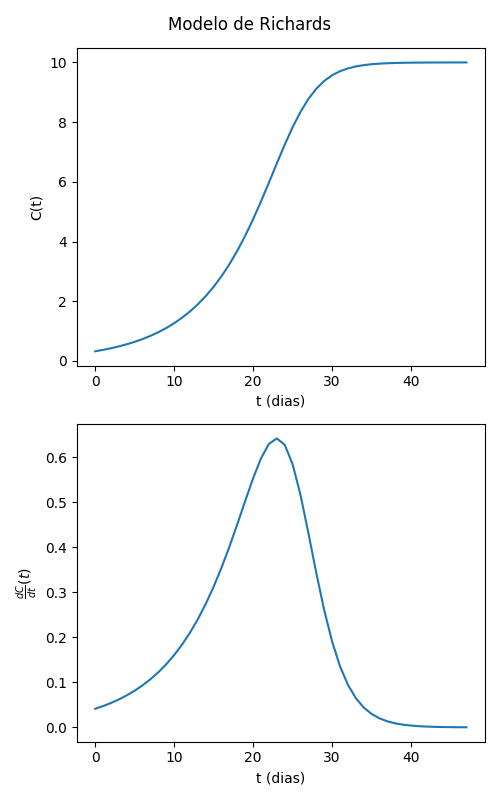
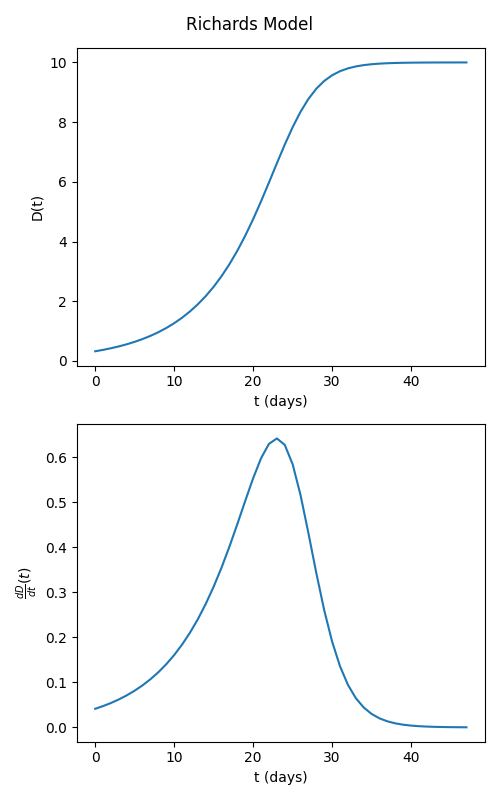
Traduz imagem para vídeo do CLAIB 2022

diff --git a/Congresso/graphs.py b/Congresso/graphs.py
@@ -23,18 +23,18 @@ def main():
     # Definições iniciais
     t = np.linspace(0, 12, 50)
     fig, axs = plt.subplots(2, 1, figsize=(5,8))
-    fig.suptitle('Modelo de Richards')
+    fig.suptitle('Richards Model')
     #C_t = logist_t(0.8, 6, 10, t) #Logístico
     C_t = richards_t(t, 10, 6, 0.6, 3)
     #C_t = exp_t(1, 0.5, t)
     axs[0].plot(C_t[2:])
-    axs[0].set_xlabel('t (dias)')
-    axs[0].set_ylabel('C(t)')
+    axs[0].set_xlabel('t (days)')
+    axs[0].set_ylabel('D(t)')
 
     der = forward_euler(t, 1, C_t, 0)
     axs[1].plot(der[2:])
-    axs[1].set_xlabel('t (dias)')
-    axs[1].set_ylabel(r'$\frac{dC}{dt}(t)$')
+    axs[1].set_xlabel('t (days)')
+    axs[1].set_ylabel(r'$\frac{dD}{dt}(t)$')
     plt.tight_layout()
     #plt.show() 
     plt.savefig('richards-model.png')
